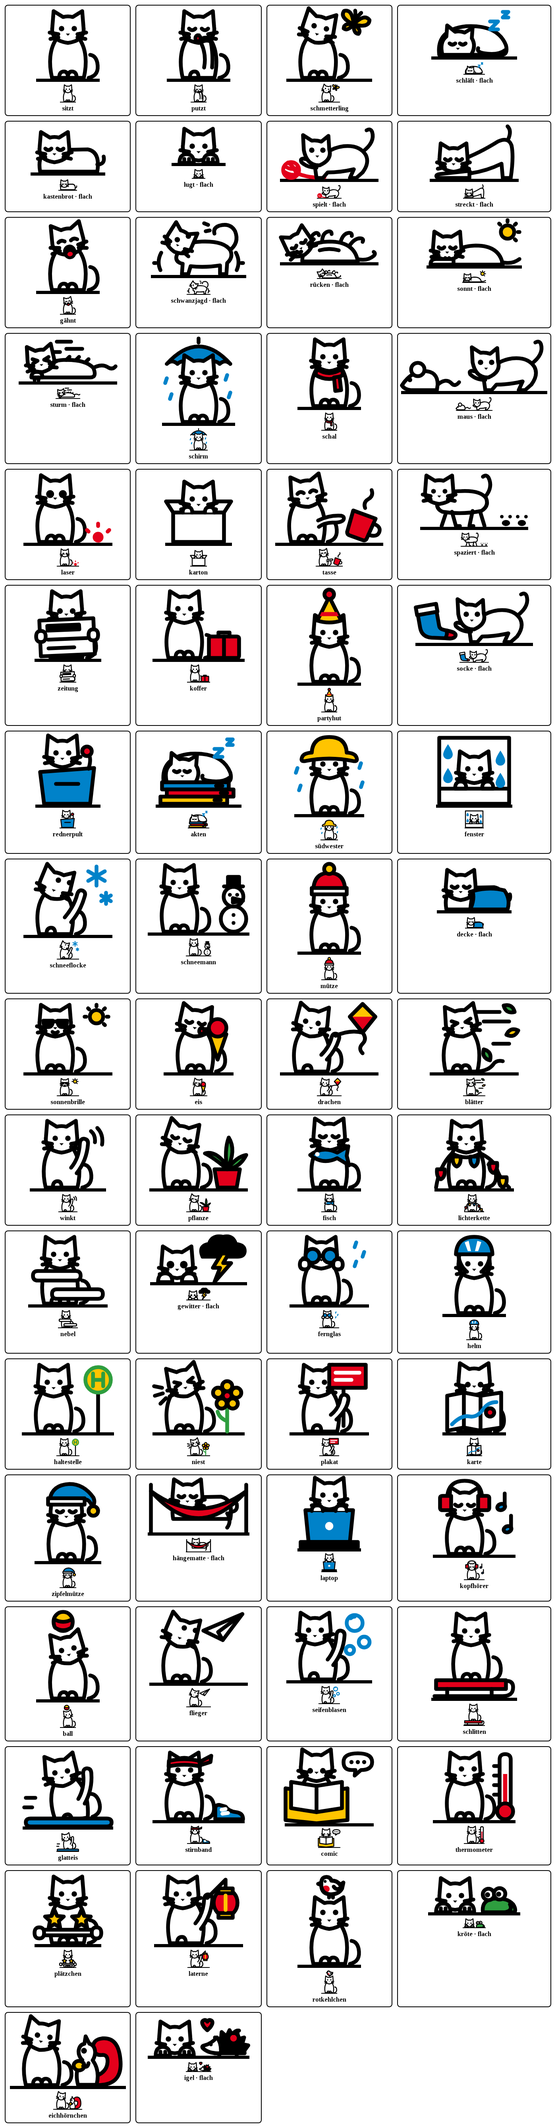
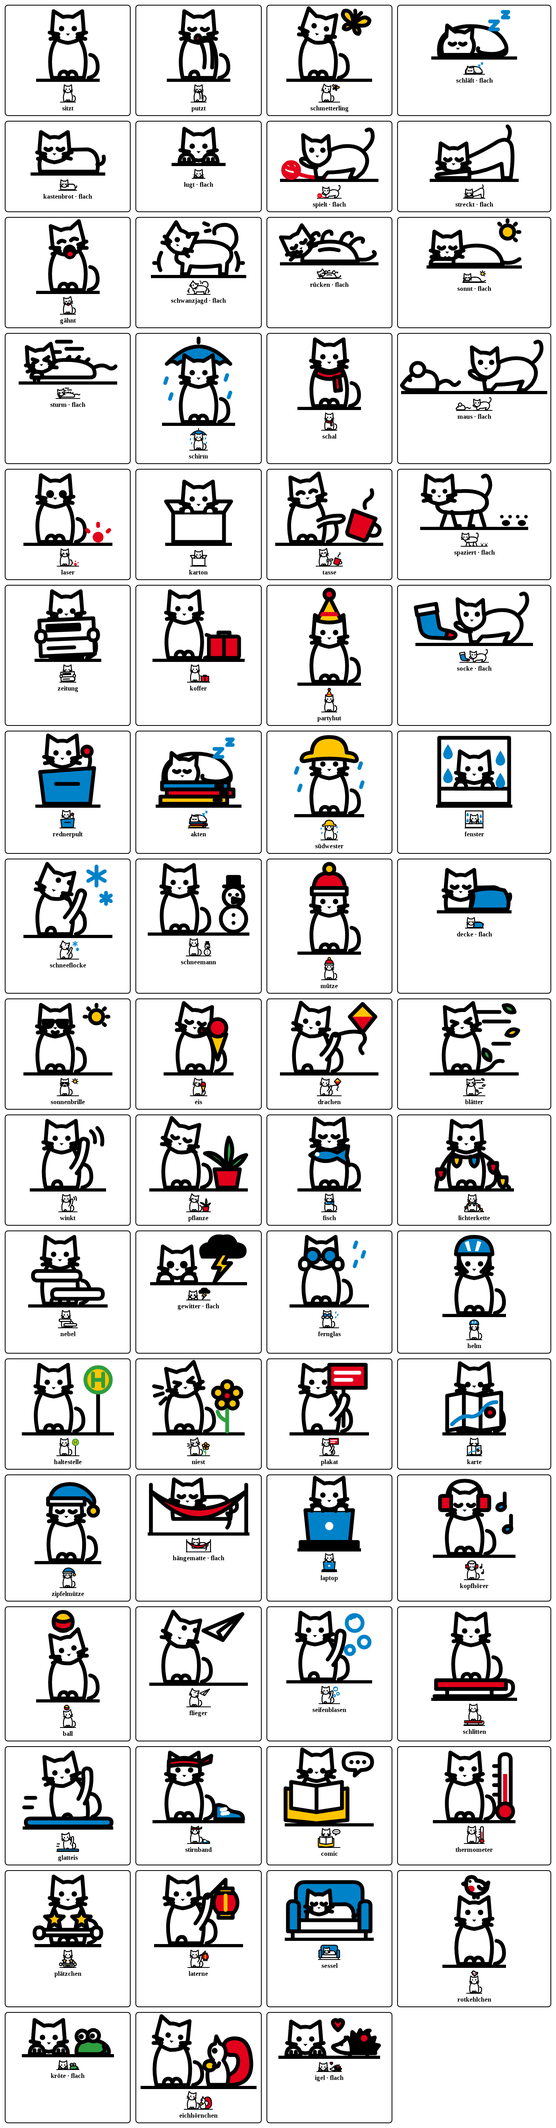
1.47: Feierabend-Zeile unter „Heute“ nach dem letzten Termin, Katze im Sessel (vor dem Wetter, im Wechsel)
Claude-Session: https://claude.ai/code/session_01XTVaJsFCipmLUZ4i68hKv7

diff --git a/tagesdashboard/settings.html b/tagesdashboard/settings.html
@@ -5,7 +5,7 @@
      Checkboxen als "aus". Neue Checkboxen: cfgVersion erhöhen, data-since setzen, SINCE_VERSION im Python-Code.
      Seit 1.10 neu gegliederte Seite. Version 10 (1.11): neue Checkboxen radarEnabled und newsFrEnabled.
      Version 11 (1.12): Luftqualität (airEnabled, airGases). Version 15 (1.16): Pollenflug (pollenEnabled). -->
-<input type="hidden" name="cfgVersion" value="29" />
+<input type="hidden" name="cfgVersion" value="30" />
 
 <div class="st">
 
@@ -192,6 +192,7 @@
     <label class="st-check"><input type="checkbox" class="db-check" name="showLocation" value="true" data-default="true"><span>Ort anzeigen</span></label>
     <label class="st-check"><input type="checkbox" class="db-check" name="useColors" value="true" data-default="true"><span>Kalenderfarben</span></label>
     <label class="st-check"><input type="checkbox" class="db-check" name="showPast" value="true" data-default="false"><span>Beendete Termine von heute zeigen</span></label>
+    <label class="st-check"><input type="checkbox" class="db-check" name="fbEnabled" value="true" data-default="true" data-since="30"><span>Feierabend <span class="st-note">ist der letzte Termin des Tages vorbei, steht unter „Heute“ „Feierabend seit 17:30 · 3 Termine“ (bis zum Nachtbild); die Katze legt sich dann ab und zu in den Sessel</span></span></label>
     <label class="st-check"><input type="checkbox" class="db-check" name="comicEnabled" value="true" data-default="true" data-since="26"><span>Sonntagscomic <span class="st-note">sonntags ohne weitere Termine steht statt der Liste der neueste xkcd (passt er nicht in die Spalte, der vorherige)</span></span></label>
     <label class="st-check"><input type="checkbox" class="db-check" name="liveEnabled" value="true" data-default="true" data-since="20"><span>Livestream während Sitzungen <span class="st-note">oben in der Terminliste ein QR-Code zum Stream, solange der Termin läuft</span></span></label>
     <div class="st-sub" data-parent="liveEnabled">

diff --git a/tagesdashboard/render/tagesdashboard.html b/tagesdashboard/render/tagesdashboard.html
@@ -568,7 +568,7 @@
       {% for day in (calendar[:1] if news else calendar) %}
       <div class="day{% if day.is_today %} is-today{% endif %}">
         <div class="day-head fit-item"><span class="dl">{{ day.label }}</span>{% if day.date %}<span class="dd">{{ day.date }}</span>{% endif %}</div>
-        {% if not day.events %}<div class="ev empty fit-item">Keine weiteren Termine</div>{% endif %}
+        {% if not day.events and not (day.is_today and fb) %}<div class="ev empty fit-item">Keine weiteren Termine</div>{% endif %}
         {% for ev in day.events %}
         <div class="ev fit-item{% if ev.all_day %} allday{% endif %}" style="--c: {{ ev.color }}; --fg: {{ ev.fg }};">
           <div class="ev-time">{% if ev.now %}<span class="now-tag">jetzt</span>{% elif not ev.all_day %}{{ ev.short }}{% endif %}</div>
@@ -586,6 +586,8 @@
           </div>
         </div>
         {% endfor %}
+        {# Feierabend (seit 1.47): statt „Keine weiteren Termine“; mit „Beendete Termine zeigen“ unter ihnen #}
+        {% if day.is_today and fb %}<div class="ev empty fb-line fit-item">{{ fb_icon | safe }}<span><b>Feierabend</b> seit {{ fb.since_text }} · {{ fb.count_text }}</span></div>{% endif %}
       </div>
       {% endfor %}
     </div>

diff --git a/tagesdashboard/render/tagesdashboard.css b/tagesdashboard/render/tagesdashboard.css
@@ -853,3 +853,14 @@ body:has(> .container > .ur) > .container { width: 100vw; height: 100vh; }
 .mono .snow-card .tr-badge { background: currentColor; }
 .mono .snow-card .tr-badge { color: var(--bg, #fff); }
 .mono .sn-bar { fill: currentColor; }
+
+/* ---------------- Feierabend (seit 1.47, Variante B) ----------------
+ * Zeile unter „Heute“ statt „Keine weiteren Termine“: grünes Häkchen, „Feierabend“ in Grün, Rest in Textfarbe.
+ * Etwas größer als der leere Hinweis (2,0 statt 1,9 u), damit der Übergang auffällt; bricht nicht um. */
+.ev.fb-line { display: flex; align-items: center; gap: calc(var(--u) * 0.7); font-size: calc(var(--u) * 2.0);
+  padding: calc(var(--u) * 0.3) 0; white-space: nowrap; }
+.fb-ck { flex: 0 0 auto; width: calc(var(--u) * 2.6); height: calc(var(--u) * 2.6); }
+.fb-line b { color: #2E9E3F; font-weight: 600; }
+.mono .fb-line b { color: inherit; }
+.mono .fb-ck circle { fill: currentColor; }
+.mono .fb-ck path { stroke: var(--bg); }

diff --git a/tagesdashboard/katze.py b/tagesdashboard/katze.py
@@ -872,6 +872,18 @@ def g_eichhoernchen():
     return 27, 26, tail + body + face + nut
 
 
+# ------------------------------------------------------------ Feierabend (seit 1.47)
+def sessel():
+    """Feierabend: liegt eingerollt im blauen Sessel (Leons Wahl aus Pantoffeln, Sessel, Buch)."""
+    back = f'<path fill="{BLUE}" stroke="currentColor" d="M7 30 V11 Q7 5 13 5 H43 Q49 5 49 11 V30 Z"/>'
+    cat = f'<g transform="translate(9.5 6.5) scale(0.8)">{kastenbrot()[2]}</g>'
+    seat = f'<path {F} d="M8 29 H48 V36 H8 Z"/>'
+    arms = (f'<path fill="{BLUE}" stroke="currentColor" d="M2 20 Q2 17 5 17 Q9 17 9 20 V36 H2 Z"/>'
+            f'<path fill="{BLUE}" stroke="currentColor" d="M47 20 Q47 17 51 17 Q54 17 54 20 V36 H47 Z"/>')
+    legs = f'<path {L} d="M5 36 V40 M51 36 V40"/>'
+    return 56, 40, back + cat + seat + arms + legs
+
+
 def _place(inner, x, y, k=1.0):
     return f'<g transform="translate({x:.1f} {y:.1f}) scale({k})">{inner}</g>'
 
@@ -939,6 +951,8 @@ POSES = {
     # seit 1.43
     "schlitten": schlitten, "glatteis": glatteis, "stirnband": stirnband, "comic": comic,
     "thermometer": thermometer, "plätzchen": plaetzchen, "laterne": laterne,
+    # seit 1.47: nur über den Anlass „feierabend“, nie zufällig
+    "sessel": sessel,
     # Saisonale Gäste (seit 1.46): nie zufällig, nur in ihrer Saison auf Gast-Takten (guest_slot)
     **GUEST_POSES,
 }
@@ -969,7 +983,9 @@ OCCASION_POSE = {"geburtstag": "partyhut", "nachrichten": "zeitung", "zug": "kof
                  "wahlkampf": "plakat", "zielort": "karte", "abend": "zipfelmütze", "wochenende": "hängematte",
                  # seit 1.43: Schnee-Karte oder Schnee am Ölberg, Glätte-, Lauf-, Klima-Karte, Sonntagscomic, Laternenumzug
                  "schneekarte": "schlitten", "glaette": "glatteis", "laufen": "stirnband", "klima": "thermometer",
-                 "comic": "comic", "laterne": "laterne"}
+                 "comic": "comic", "laterne": "laterne",
+                 # seit 1.47: nach dem letzten Termin des Tages (feierabend.check) – vor dem Wetter, siehe choose()
+                 "feierabend": "sessel"}
 # Laternenumzug (seit 1.43): Termin heute, dessen Titel eines dieser Wörter enthält (Groß-/Kleinschreibung egal)
 LANTERN_WORDS = ("laterne", "st. martin", "st.martin", "sankt martin", "martinszug", "martinsumzug")
 
@@ -1130,17 +1146,27 @@ def guest_slot(now):
     return (slot_of(now) // 2 + shift) % 2 == 0
 
 
+def _turn(others, slot):
+    """Welcher der gleichzeitigen Anlässe auf diesem Anlass-Takt dran ist (abwechselnd über slot // 2).
+    Ist ein seltener Anlass dabei, ist slot // 2 hier immer gerade – dann über slot // 4, sonst käme bei
+    zwei Anlässen nur der erste dran (seit 1.35, Test)."""
+    step = 4 if RARE_OCCASIONS & set(others) else 2
+    return others[(slot // step) % len(others)]
+
+
 def choose(now, records=None, nowcast=None, weather=True, feels_like=None, occasions=(), egg=None, guests=True):
     """Was die Katze diesmal tut und wo sie es zuerst versucht.
 
     occasions – aktive Anlässe aus OCCASION_POSE (geburtstag, nachrichten, zug, waesche, advent; seit 1.35 radar, rad,
                 oepnv, pollen, wahlkampf, zielort, abend, wochenende; seit 1.43 schneekarte, glaette, laufen, klima,
-                comic, laterne) und „rat“
+                comic, laterne; seit 1.47 feierabend) und „rat“
                 (seit 1.27: Ratssitzung läuft, die Livestream-Karte steht)
     egg       – Pose eines Ostereis (seit 1.24, ostereier.today) oder None
     guests    – saisonale Gäste zulassen (seit 1.46, GUEST_SEASON, nur auf Gast-Takten)
 
-    Rangfolge: Geburtstag > Ratssitzung > Osterei > Gast (seit 1.46) > Wetter > übrige Anlässe > Alltag; seit 1.43 schlagen Glätte und
+    Rangfolge: Geburtstag > Ratssitzung > Osterei > Gast (seit 1.46) > Wetter > übrige Anlässe > Alltag; seit 1.47 geht der
+    Feierabend (Sessel) dem Wetter vor, wechselt sich aber mit den übrigen Anlässen ab (Leons Wahl) – ist er
+    an der Reihe, liegt sie im Sessel, sonst gilt die Rangfolge wie gehabt; seit 1.43 schlagen Glätte und
     Schnee am Berg (WINTER_OCCASIONS) auf ihren Takten die Wetterlagen Frost und Schnee. Anlässe (auch Geburtstag
     und Ratssitzung) zählen nur in jedem zweiten Takt (occasion_slot); Osterei und Wetter gelten immer, wenn sie
     zutreffen – an einem Ostereier-Tag mit Ratssitzung wechseln sich also Osterei und Rednerpult ab.
@@ -1168,6 +1194,8 @@ def choose(now, records=None, nowcast=None, weather=True, feels_like=None, occas
         reason, main = "rat", RAT_LATE_POSE if now.hour >= RAT_LATE_HOUR else RAT_POSE
     elif egg:  # Ostereier (seit 1.24): an ihrem Tag in jedem Takt, vor dem Wetter
         reason, main = "osterei", egg
+    elif "feierabend" in others and _turn(others, slot) == "feierabend":  # seit 1.47: vor dem Wetter, im Wechsel
+        reason, main = "feierabend", OCCASION_POSE["feierabend"]
     elif guests and guest_of(day) and guest_slot(now):  # seit 1.46: Gast der Saison, auch bei Wetter (Leons Wahl)
         reason, main = "gast", guest_of(day)
     elif winter and weather_why in ("frost", "schnee"):  # seit 1.43: Glätte/Schnee am Berg passen zum Winterwetter
@@ -1175,11 +1203,8 @@ def choose(now, records=None, nowcast=None, weather=True, feels_like=None, occas
         main = OCCASION_POSE[reason]
     elif weather_why:  # seit 1.34: Varianten reihum, Reihenfolge je Tag und Wetterlage gemischt
         reason, main = weather_why, weather_pose(weather_why, day, slot)
-    elif others:  # mehrere zugleich (Zug-Dienstag im Nachrichtenfenster): abwechseln
-        # Abwechseln auf den Anlass-Takten (slot // 2). Ist ein seltener Anlass dabei, ist slot // 2 hier immer
-        # gerade – dann über slot // 4, sonst käme bei zwei Anlässen nur der erste dran (seit 1.35, Test).
-        step = 4 if RARE_OCCASIONS & set(others) else 2
-        reason = others[(slot // step) % len(others)]
+    elif others:  # mehrere zugleich (Zug-Dienstag im Nachrichtenfenster): abwechseln (_turn)
+        reason = _turn(others, slot)
         main = occasion_pose(reason, day, slot)
     else:
         reason, main = None, everyday[slot % len(everyday)]

diff --git a/tagesdashboard/tagesdashboard.py b/tagesdashboard/tagesdashboard.py
@@ -50,13 +50,13 @@ try:
     from . import (kleidung, bahn, nachrichten, waesche, ansichten, nachtgrafik, anfahrt, festtage, radar, luft,
                    katze, pollen, meteore, finsternisse, planeten, status, urlaub, wahlkampf, iss, ostereier, livestream,
                    pegel, pizustand, advent, zielort, laufen, glaette, polarlicht, nina, wochenlast, laufbilanz, monat,
-                   xkcd, klima, schnee, freigabe)
+                   xkcd, klima, schnee, freigabe, feierabend)
 except ImportError:  # pragma: no cover
     from plugins.tagesdashboard import (kleidung, bahn, nachrichten, waesche, ansichten, nachtgrafik, anfahrt,
                                         festtage, radar, luft, katze, pollen, meteore, finsternisse, planeten,
                                         status, urlaub, wahlkampf, iss, ostereier, livestream, pegel, pizustand, advent,
                                         zielort, laufen, glaette, polarlicht, nina, wochenlast,
-                                        laufbilanz, monat, xkcd, klima, schnee, freigabe)
+                                        laufbilanz, monat, xkcd, klima, schnee, freigabe, feierabend)
 
 # Wahlurne (Stimmzettel mit Kreuz steckt im Schlitz)
 WAHL_ICON = ('<svg class="{cls}" viewBox="0 0 32 32" aria-hidden="true">'
@@ -223,6 +223,7 @@ DEFAULTS = {
     "monthEnabled": "true", "monthFrom": "06:00", "monthTo": "10:00",
     # Sonntagscomic: xkcd statt der leeren Terminliste (seit cfgVersion 26)
     "comicEnabled": "true",
+    "fbEnabled": "true",  # seit 1.47: Feierabend-Zeile unter „Heute“ und Sessel-Katze
     # Klimaeinordnung (Kurve, Karte) und Wetter-Meilensteine (seit cfgVersion 27)
     "climCurve": "true", "climCard": "true", "mileEnabled": "true",
     # Schnee-Radar: Karte, Schneekappen im Nachtbild, Schnee in der Wochenvorschau (seit cfgVersion 28)
@@ -260,7 +261,8 @@ SINCE_VERSION["comicEnabled"] = 26
 SINCE_VERSION.update({"climCurve": 27, "climCard": 27, "mileEnabled": 27})
 SINCE_VERSION.update({"snowCard": 28, "snowNight": 28, "snowWeek": 28})
 SINCE_VERSION.update({"liveCity": 29})
-CFG_VERSION = 29  # muss zu cfgVersion in settings.html passen (dev/test_settings.py prüft das)
+SINCE_VERSION["fbEnabled"] = 30
+CFG_VERSION = 30  # muss zu cfgVersion in settings.html passen (dev/test_settings.py prüft das)
 WEEK_DAY = 6  # Wochenvorschau sonntags
 
 # Das Nachtbild wird einmal gezeichnet und bis zum Ende der Nacht wiederverwendet
@@ -744,6 +746,14 @@ class Tagesdashboard(BasePlugin):
             if card:
                 params["live"] = card
                 logger.info("Livestream: %s %s → %s", card["title"], card["until"], card["href"])
+        # ---- Feierabend-Schwelle (seit 1.47, Leons Wahl „B Zeile unter Heute“): ist der letzte Termin des Tages
+        # vorbei, steht unter „Heute“ „✓ Feierabend seit 17:30 · 3 Termine“ – bis das Nachtbild übernimmt ----
+        if mode == "normal" and flag("fbEnabled") and not cal_error:
+            fb = feierabend.check(events, now, today)
+            if fb:
+                params["fb"] = fb
+                params["fb_icon"] = feierabend.CHECK_ICON.format(cls="fb-ck")
+                logger.info("Feierabend seit %s (%s)", fb["since_text"], fb["count_text"])
         # ---- Wahlkampf-Modus (seit 1.35 vor der Katzenwahl, Anlass „wahlkampf“): Karte an Tagen mit Wahlkampftermin (und am Wahltag selbst) ----
         wahl_cfg = wahlkampf.read_config(opt, flag, today) if mode == "normal" else None
         if wahl_cfg:
@@ -776,7 +786,9 @@ class Tagesdashboard(BasePlugin):
                     ("laufen", bool(params.get("run"))),
                     ("klima", bool(params.get("clim_card"))),
                     ("comic", bool(params.get("comics"))),
-                    ("laterne", any(katze.is_lantern(ev.get("title")) for ev in today_events))) if on]
+                    ("laterne", any(katze.is_lantern(ev.get("title")) for ev in today_events)),
+                    # seit 1.47: Sessel nach Feierabend (vor dem Wetter, im Wechsel mit den übrigen Anlässen)
+                    ("feierabend", bool(params.get("fb")))) if on]
                 logger.debug("Katze: Anlässe %s", ", ".join(occasions) or "keine")
                 params["cat"] = katze.choose(now, records, nowcast, weather=flag("catWeather"),
                                              feels_like=dwd.feels_like, occasions=occasions,
@@ -863,6 +875,8 @@ class Tagesdashboard(BasePlugin):
             edges += advent.boundaries(now) if flag("adventEnabled") else []  # Kranz kommt, bekommt eine Kerze mehr, geht nach Heiligabend
             if flag("comicEnabled"):  # Sonntagscomic: erscheint, sobald der letzte Termin des Tages vorbei ist
                 edges += xkcd.boundaries(now, today_events)
+            if flag("fbEnabled") and mode == "normal" and not cal_error:  # Feierabend-Zeile pünktlich zum Ende des letzten Termins
+                edges += feierabend.boundaries(events, now, today)
             if flag("liveEnabled"):  # Livestream-Karte kommt zu Beginn der Sitzung und geht an ihrem Ende
                 edges += livestream.boundaries(today_events, live_words, now)
             edge = min((e for e in edges if e and e > now), default=None)

diff --git a/tagesdashboard/feierabend.py b/tagesdashboard/feierabend.py
@@ -1,0 +1,52 @@
+"""Feierabend-Schwelle (seit 1.47, Leons Wahl „B Zeile unter Heute“, bis zum Nachtbild, ab 1 Termin).
+
+Ist der letzte Termin des Tages vorbei, steht unter „Heute“ statt „Keine weiteren Termine“:
+„✓ Feierabend seit 17:30 · 3 Termine“. Die Zeile bleibt, bis um 23 Uhr das Nachtbild übernimmt
+(nach 20 Uhr also auch in der Abendansicht, die das Wetter für morgen zeigt).
+
+Gezählt werden nur Termine mit Uhrzeit, die heute beginnen. Ganztägige (Müllabfuhr, Geburtstag)
+zählen nie, abgelehnte und abgesagte Termine kommen gar nicht erst aus dem Kalender. Endet ein
+heutiger Termin erst nach Mitternacht (Nachtzug nach Wien), gibt es heute keinen Feierabend.
+"""
+
+
+def hm(dt):
+    return f"{dt.hour}:{dt.minute:02d}"
+
+
+def todays(events, today):
+    """Termine mit Uhrzeit und Dauer, die heute beginnen."""
+    return [e for e in events
+            if not e.get("all_day") and e["end"] > e["start"] and e["start"].date() == today]
+
+
+def last_end(events, today):
+    """Ende des letzten heutigen Termins – None ohne Termine oder wenn er erst nach Mitternacht endet."""
+    evs = todays(events, today)
+    if not evs:
+        return None
+    end = max(e["end"] for e in evs)
+    return end if end.date() == today else None
+
+
+def check(events, now, today):
+    """Feierabend? Dann {since, since_text, count, count_text}, sonst None."""
+    end = last_end(events, today)
+    if end is None or now < end:
+        return None
+    n = len(todays(events, today))
+    return {"since": end, "since_text": hm(end), "count": n,
+            "count_text": f"{n} Termin{'e' if n != 1 else ''}"}
+
+
+def boundaries(events, now, today):
+    """Cache-Grenze: Das Bild wird zum Ende des letzten Termins neu gezeichnet (nicht bis zu 15 min später)."""
+    end = last_end(events, today)
+    return [end] if end and end > now else []
+
+
+# Grünes Häkchen im Kreis vor der Zeile (32er-ViewBox; Kreis kräftig genug für E-Ink)
+CHECK_ICON = ('<svg class="{cls}" viewBox="0 0 32 32" aria-hidden="true">'
+              '<circle cx="16" cy="16" r="14" fill="#2E9E3F"/>'
+              '<path d="M8.5 16.5 L14 22 L24 10.5" fill="none" stroke="#fff" stroke-width="4" stroke-linecap="round" '
+              'stroke-linejoin="round"/></svg>')

diff --git a/README.md b/README.md
@@ -1,6 +1,6 @@
-# Tagesdashboard (Wetter & Kalender) für InkyPi – Version 1.45
+# Tagesdashboard (Wetter & Kalender) für InkyPi – Version 1.47
 
-Wetter vom DWD links, Nextcloud-Termine rechts, Kleidungsempfehlung, UV-Index, Pollenflug, Lauf-Fenster, Glätte-Hinweis fürs Rad, Sternschnuppenströme, Mondfinsternisse, helle Planeten und Polarlicht im Nachtbild, Zug mit Störungsmonitor, Morgen-Schlagzeilen, Wäsche-Karte, Nachtbild mit Bonner Silhouette, Wochenvorschau, Anfahrt zu Terminen, Festtage, Regenradar, Schlagzeilen aus Frankreich, Luftqualität, Streckenmeldungen und eine **kleine Katze**, die sich bei jeder Aktualisierung woanders versteckt – nachts schläft sie auf dem Mond über Bonn, mit Maus, Laserpunkt, Karton und passenden Posen zu Nachrichten, Zug, Wäsche, Geburtstag und Ratssitzung. Dazu eine **Statusanzeige** im Kopf, wenn eine Datenquelle ausfällt. Die Kleidungsempfehlung sagt, ob es **kälter oder wärmer als gestern** wird. Dazu ein **Urlaubsbild**, eine **Wahlkampf-Karte** und der **ISS-Überflug** im Nachtbild. Während einer **Ratssitzung** führt ein **QR-Code zum Livestream**. **Abgelehnte Einladungen** erscheinen nicht mehr. Während der Ratssitzung steht die Katze **am Rednerpult**. Im Nachtbild steht der **Rhein so hoch wie am Pegel Bonn**, und die Wochenvorschau sagt, **wie es dem Pi geht**. In der Adventszeit steht ein **Adventskranz** im Kopf, und die Wochenvorschau nennt die **freien Abende**. Liegt ein Termin weiter weg, etwa in Düsseldorf, steht das **Wetter am Zielort** dabei. Das **Nachtbild reicht bis an den Rand** des Displays. Ohne Zug zeichnet das Dashboard im gewohnten Takt neu statt alle 5 Minuten. Der Zugang zur Nextcloud ist besser abgesichert. Die Wetterseite ist **aufgeräumter**: weniger Kacheln, keine Rahmen, mehr Platz für die Tageskurve. Die Katze hat viele Posen: bei jedem Wetter mehrere, die sich abwechseln, in der Adventszeit eine Lichterkette und neu passende Posen zu Regenradar, Anfahrt, Pollen, Wahlkampf, Zielort, spätem Abend und Wochenende. Neu: **Warnungen des Bevölkerungsschutzes** (NINA) als rotes Band, in der Wochenvorschau **wie voll die Woche ist** und **wie viel du gelaufen bist**, und am Monatsersten ein **Monatsbild**. Sonntags ohne Termine steht ein **xkcd-Comic** in der Terminspalte. Die Tageskurve zeigt, **wie warm es an diesem Datum üblich ist**, eine Karte meldet **ungewöhnliche Wärme oder Kälte**, und eine Zeile unter der Temperatur feiert **Wetter-Meilensteine** wie den ersten Frost. Kommt **Schnee**, sagt eine Karte, wann und wie viel; in der Tageskurve fallen Flocken, im Nachtbild liegt Schnee auf Bonns Dächern, und die Wochenvorschau zeigt, **wo Schnee liegt** (Winterberg, Eifel, Siebengebirge) – im Dezember auch, ob es **weiße Weihnachten** gibt. Im Nachtbild **lebt die Stadt**: Fenster gehen aus, eine Stadtbahn fährt über die Kennedybrücke, im Sommer dämmert es, und liegt oben auf dem Ölberg Schnee, sind die **Gipfel weiß**. Die Katze hat jetzt **66 Posen**, und je nach Jahreszeit bekommt sie **Besuch**: vom Rotkehlchen, von einer Kröte, einem Eichhörnchen oder einem Igel. Neu: **signierte Updates** – auf den Pi kommt nur, was du selbst freigegeben hast, auf Wunsch nachts automatisch und mit Rückfall auf den alten Stand.
+Wetter vom DWD links, Nextcloud-Termine rechts, Kleidungsempfehlung, UV-Index, Pollenflug, Lauf-Fenster, Glätte-Hinweis fürs Rad, Sternschnuppenströme, Mondfinsternisse, helle Planeten und Polarlicht im Nachtbild, Zug mit Störungsmonitor, Morgen-Schlagzeilen, Wäsche-Karte, Nachtbild mit Bonner Silhouette, Wochenvorschau, Anfahrt zu Terminen, Festtage, Regenradar, Schlagzeilen aus Frankreich, Luftqualität, Streckenmeldungen und eine **kleine Katze**, die sich bei jeder Aktualisierung woanders versteckt – nachts schläft sie auf dem Mond über Bonn, mit Maus, Laserpunkt, Karton und passenden Posen zu Nachrichten, Zug, Wäsche, Geburtstag und Ratssitzung. Dazu eine **Statusanzeige** im Kopf, wenn eine Datenquelle ausfällt. Die Kleidungsempfehlung sagt, ob es **kälter oder wärmer als gestern** wird. Dazu ein **Urlaubsbild**, eine **Wahlkampf-Karte** und der **ISS-Überflug** im Nachtbild. Während einer **Ratssitzung** führt ein **QR-Code zum Livestream**. **Abgelehnte Einladungen** erscheinen nicht mehr. Während der Ratssitzung steht die Katze **am Rednerpult**. Im Nachtbild steht der **Rhein so hoch wie am Pegel Bonn**, und die Wochenvorschau sagt, **wie es dem Pi geht**. In der Adventszeit steht ein **Adventskranz** im Kopf, und die Wochenvorschau nennt die **freien Abende**. Liegt ein Termin weiter weg, etwa in Düsseldorf, steht das **Wetter am Zielort** dabei. Das **Nachtbild reicht bis an den Rand** des Displays. Ohne Zug zeichnet das Dashboard im gewohnten Takt neu statt alle 5 Minuten. Der Zugang zur Nextcloud ist besser abgesichert. Die Wetterseite ist **aufgeräumter**: weniger Kacheln, keine Rahmen, mehr Platz für die Tageskurve. Die Katze hat viele Posen: bei jedem Wetter mehrere, die sich abwechseln, in der Adventszeit eine Lichterkette und neu passende Posen zu Regenradar, Anfahrt, Pollen, Wahlkampf, Zielort, spätem Abend und Wochenende. Neu: **Warnungen des Bevölkerungsschutzes** (NINA) als rotes Band, in der Wochenvorschau **wie voll die Woche ist** und **wie viel du gelaufen bist**, und am Monatsersten ein **Monatsbild**. Sonntags ohne Termine steht ein **xkcd-Comic** in der Terminspalte. Die Tageskurve zeigt, **wie warm es an diesem Datum üblich ist**, eine Karte meldet **ungewöhnliche Wärme oder Kälte**, und eine Zeile unter der Temperatur feiert **Wetter-Meilensteine** wie den ersten Frost. Kommt **Schnee**, sagt eine Karte, wann und wie viel; in der Tageskurve fallen Flocken, im Nachtbild liegt Schnee auf Bonns Dächern, und die Wochenvorschau zeigt, **wo Schnee liegt** (Winterberg, Eifel, Siebengebirge) – im Dezember auch, ob es **weiße Weihnachten** gibt. Im Nachtbild **lebt die Stadt**: Fenster gehen aus, eine Stadtbahn fährt über die Kennedybrücke, im Sommer dämmert es, und liegt oben auf dem Ölberg Schnee, sind die **Gipfel weiß**. Die Katze hat jetzt **67 Posen**, und je nach Jahreszeit bekommt sie **Besuch**: vom Rotkehlchen, von einer Kröte, einem Eichhörnchen oder einem Igel. Neu: **signierte Updates** – auf den Pi kommt nur, was du selbst freigegeben hast, auf Wunsch nachts automatisch und mit Rückfall auf den alten Stand. Ist der letzte Termin des Tages vorbei, markiert das Dashboard den **Feierabend** – und die Katze legt sich in den Sessel.
 
 ## Installieren und aktualisieren: signierte Updates (seit 1.44)
 
@@ -55,6 +55,18 @@ Erst selbst prüfen, dann installieren: `install.sh` kommt aus demselben Klon wi
 ### Ohne signierte Updates
 
 Den Ordner `tagesdashboard/` nach `InkyPi/src/plugins/tagesdashboard/` kopieren (vorhandenen Ordner ersetzen) und `sudo systemctl restart inkypi.service`.
+
+## Neu in 1.47: Feierabend
+
+![Feierabend nach dem letzten Termin](docs/feierabend_800x480.png)
+
+- **Feierabend-Zeile:** Ist der letzte Termin des Tages vorbei, steht unter „Heute“ statt „Keine weiteren Termine“ ein grünes Häkchen mit **„Feierabend seit 17:30 · 3 Termine“**. Die Zeile erscheint pünktlich zum Ende des Termins (nicht erst bei der nächsten regulären Aktualisierung) und bleibt, bis um 23 Uhr das Nachtbild übernimmt – nach 20 Uhr also auch in der Abendansicht.
+- **Was zählt:** jeder Termin mit Uhrzeit, der heute beginnt – schon ein einzelner. Ganztägige Einträge (Müllabfuhr, Geburtstag) zählen nicht, abgelehnte Einladungen und abgesagte Termine auch nicht. Endet ein Termin erst nach Mitternacht (Nachtzug), gibt es an dem Tag keinen Feierabend. Mit „Beendete Termine von heute zeigen“ steht die Zeile unter den beendeten Terminen.
+- **Katze im Sessel:** Nach Feierabend legt sich die Katze ab und zu in einen blauen Sessel. Das geht dem Wetter vor (auch bei Regen), wechselt sich aber mit den übrigen Abend-Posen ab (Socke zur Wäsche-Karte, Zipfelmütze ab 22 Uhr, im Advent Lichterkette und Plätzchen).
+- **Einstellung:** unter „Termine“ der Schalter „Feierabend“ (Standard an; gilt für Zeile und Sessel). Einstellungen müssen nicht neu gespeichert werden. Log: `journalctl -u inkypi.service | grep Feierabend`.
+- Sonntags mit Comic (seit 1.40) bleibt der Comic; passt keiner in die Spalte, erscheint die Terminliste mit der Feierabend-Zeile.
+
+![Feierabend hochkant](docs/feierabend_480x800.png)
 
 ## Neu in 1.46: Besuch für die Katze
 
